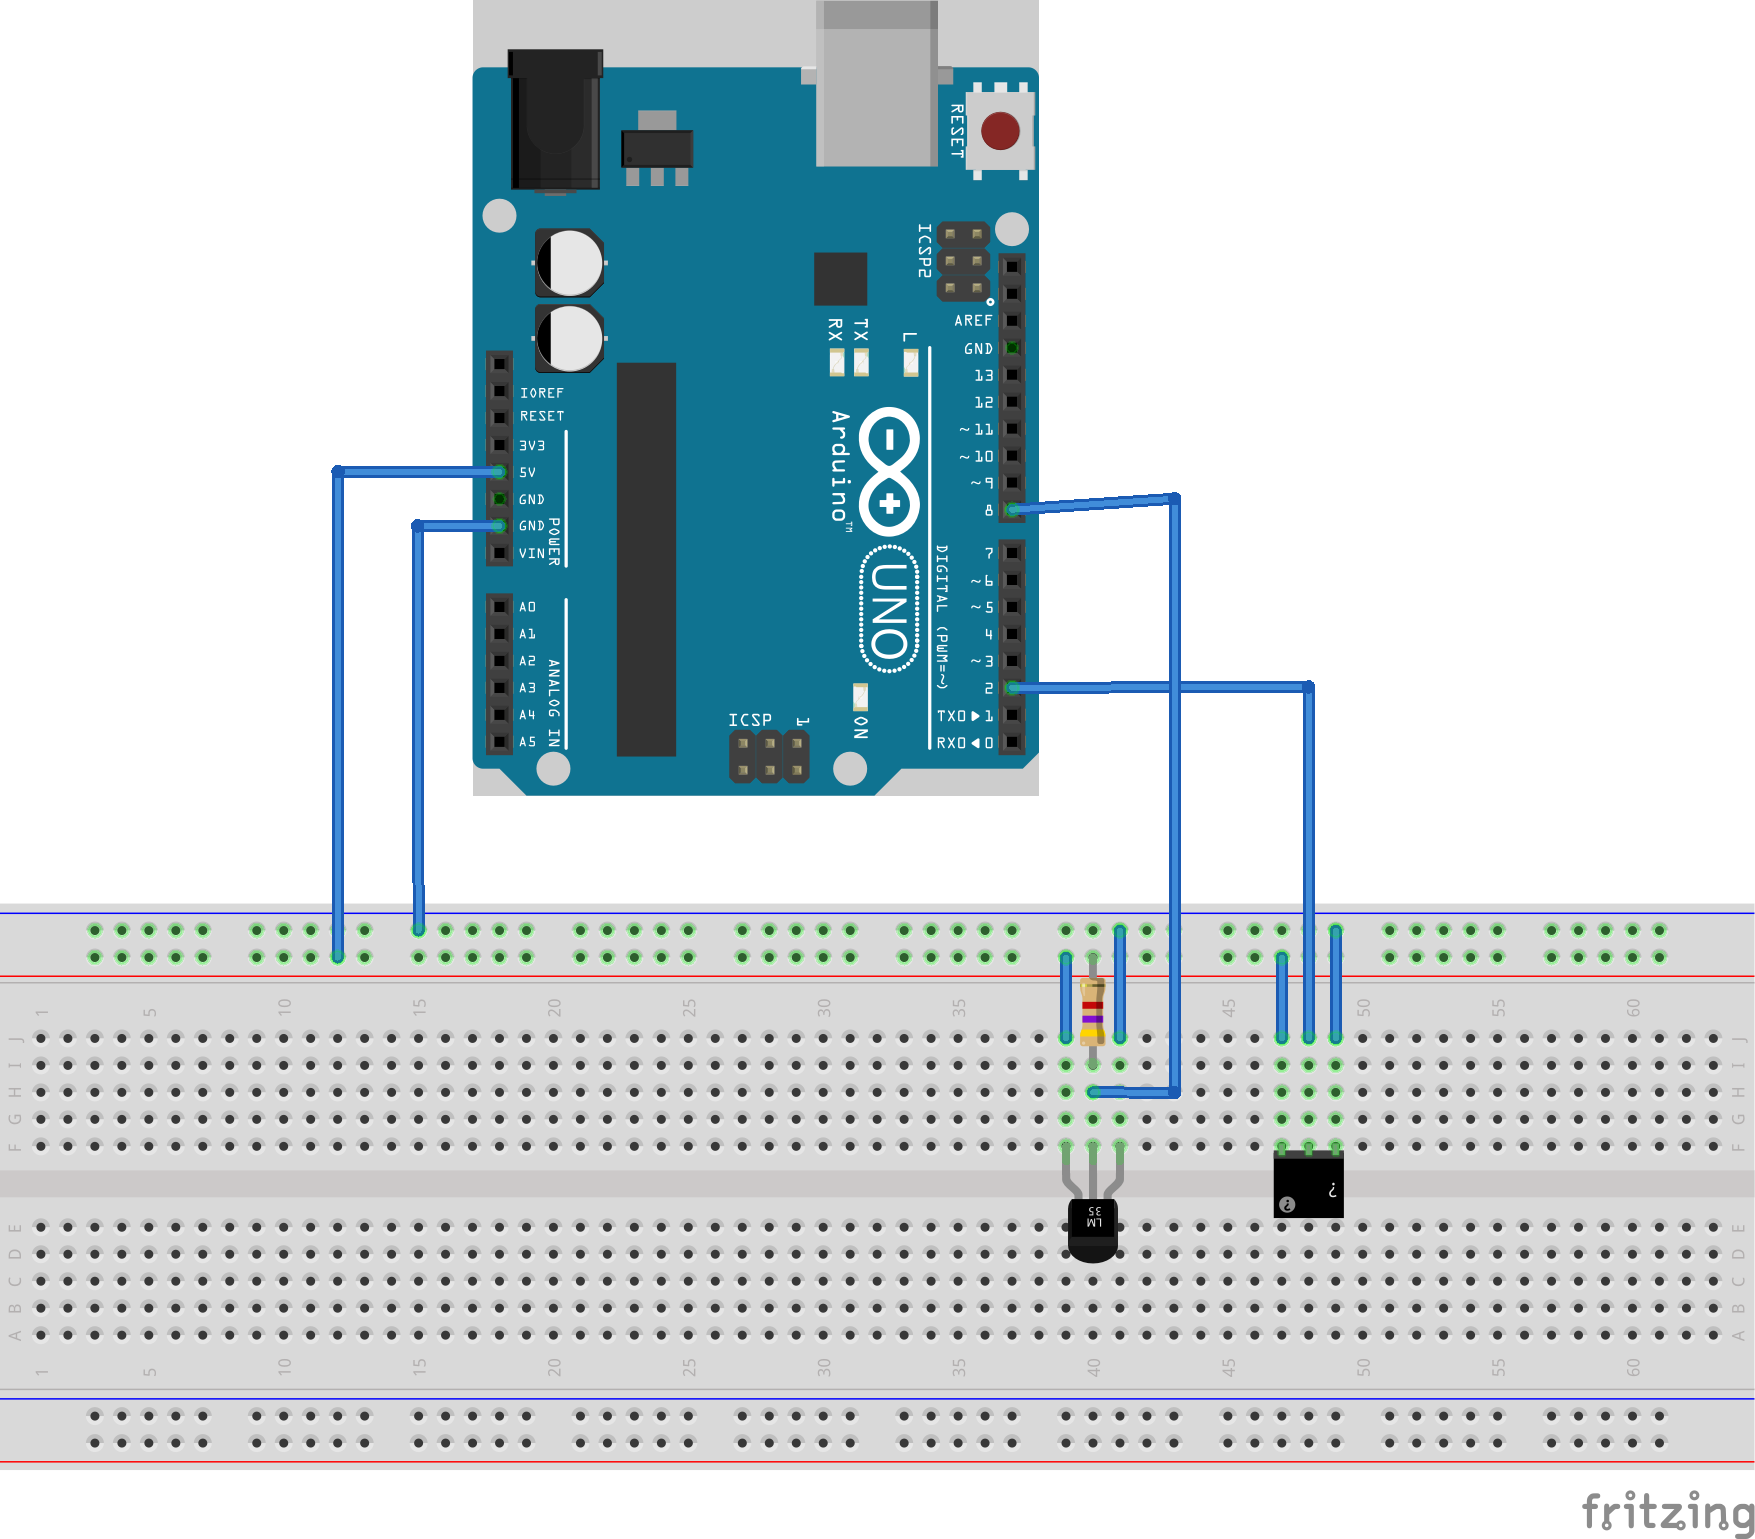
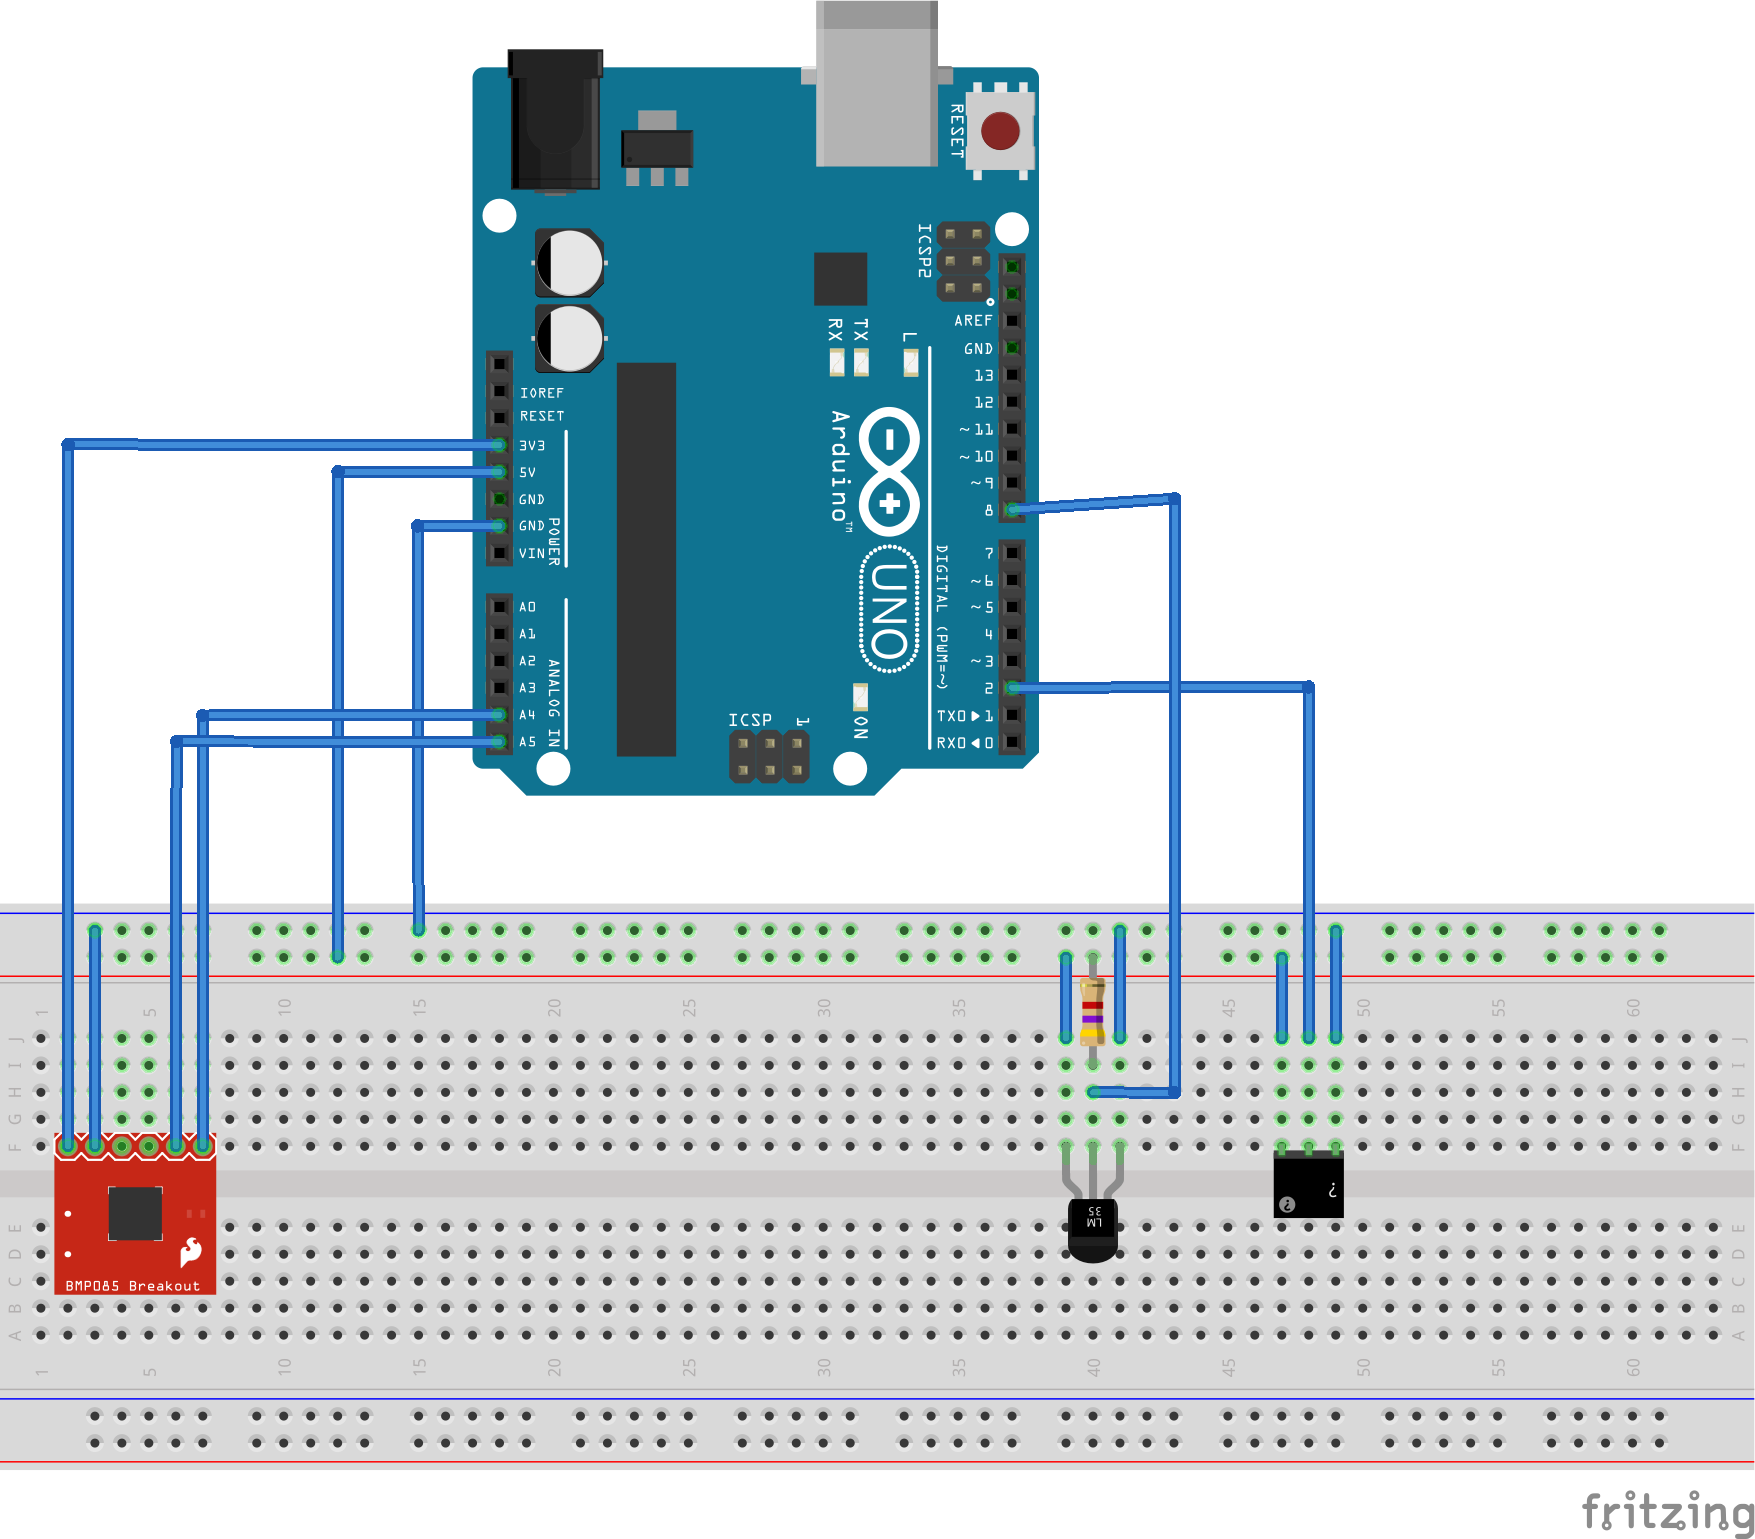
Add support for BMP085 barometric pressure gauge

diff --git a/README.md b/README.md
@@ -7,7 +7,7 @@ Built with:
 - [Arduino Uno](https://www.arduino.cc/en/Main/arduinoBoardUno)
 - [WiFi shield](https://www.arduino.cc/en/Main/ArduinoWiFiShield) or [Geeetech GPRS 2.0 shield](http://www.dx.com/p/geeetech-updated-gprs-gsm-sim900-shield-v2-0-compatible-with-arduino-green-367958)
 - [DHT11](http://www.dx.com/p/temperature-humidity-sensor-dht11-module-for-arduino-deep-blue-works-with-official-arduino-board-288612) for humidity
-- [BMP085](http://www.dx.com/p/bmp085-barometric-pressure-height-sensor-module-for-arduino-blue-148612) for barometric pressure
+- [BMP085](http://www.dx.com/p/bmp085-barometric-pressure-height-sensor-module-for-arduino-blue-148612) for barometric pressure. [More](https://www.sparkfun.com/tutorials/253) [information](http://bildr.org/2011/06/bmp085-arduino/) and [code](https://github.com/adafruit/Adafruit-BMP085-Library)
 - [DS18B20](http://www.dx.com/p/ds18b20-waterproof-digital-temperature-probe-black-silver-204290) for temperature
 - TFA 30.3512 tipping bucket rain gauge for rain
 - A [solar-powered USB battery pack](http://www.dx.com/p/3000mah-solar-powered-dual-usb-external-battery-power-bank-w-led-indicator-flashlight-black-279135) for power
@@ -21,7 +21,7 @@ Built with:
 
 - [x] Get DHT11 working
 - [x] Get DS18B20 working
-- [ ] Get BMP085 working
+- [x] Get BMP085 working
 - [ ] Get rain gauge working
 - [x] Get WiFi working
 - [ ] Get GPRS working
